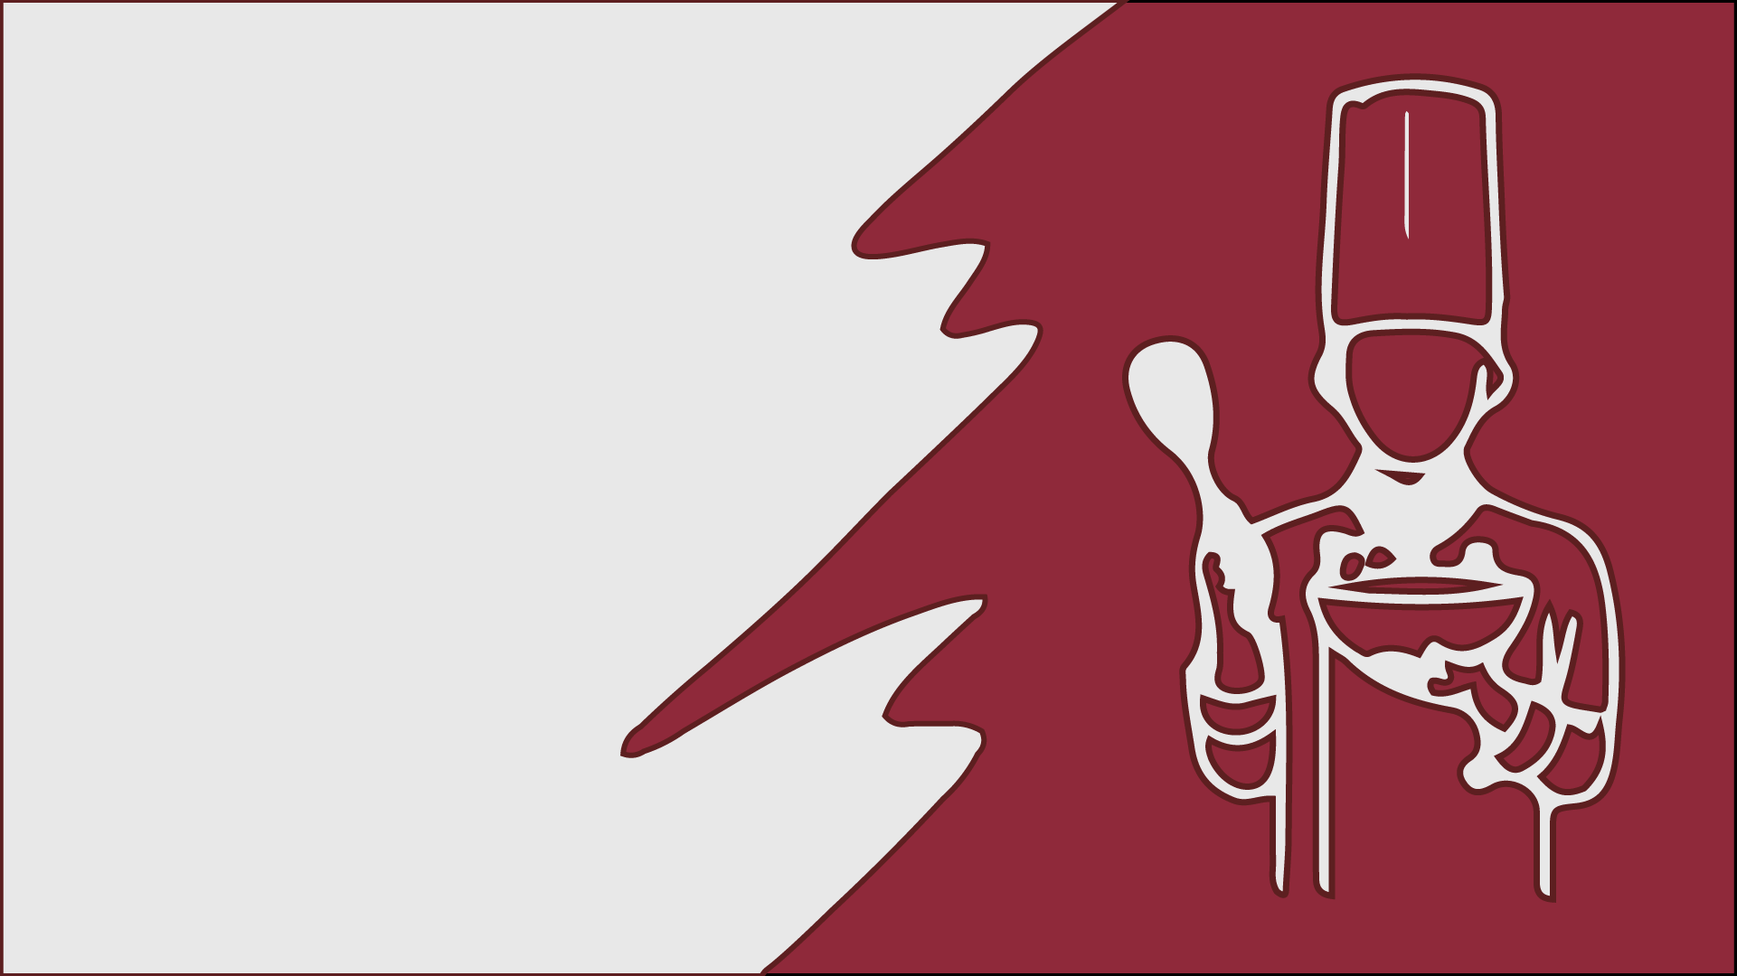
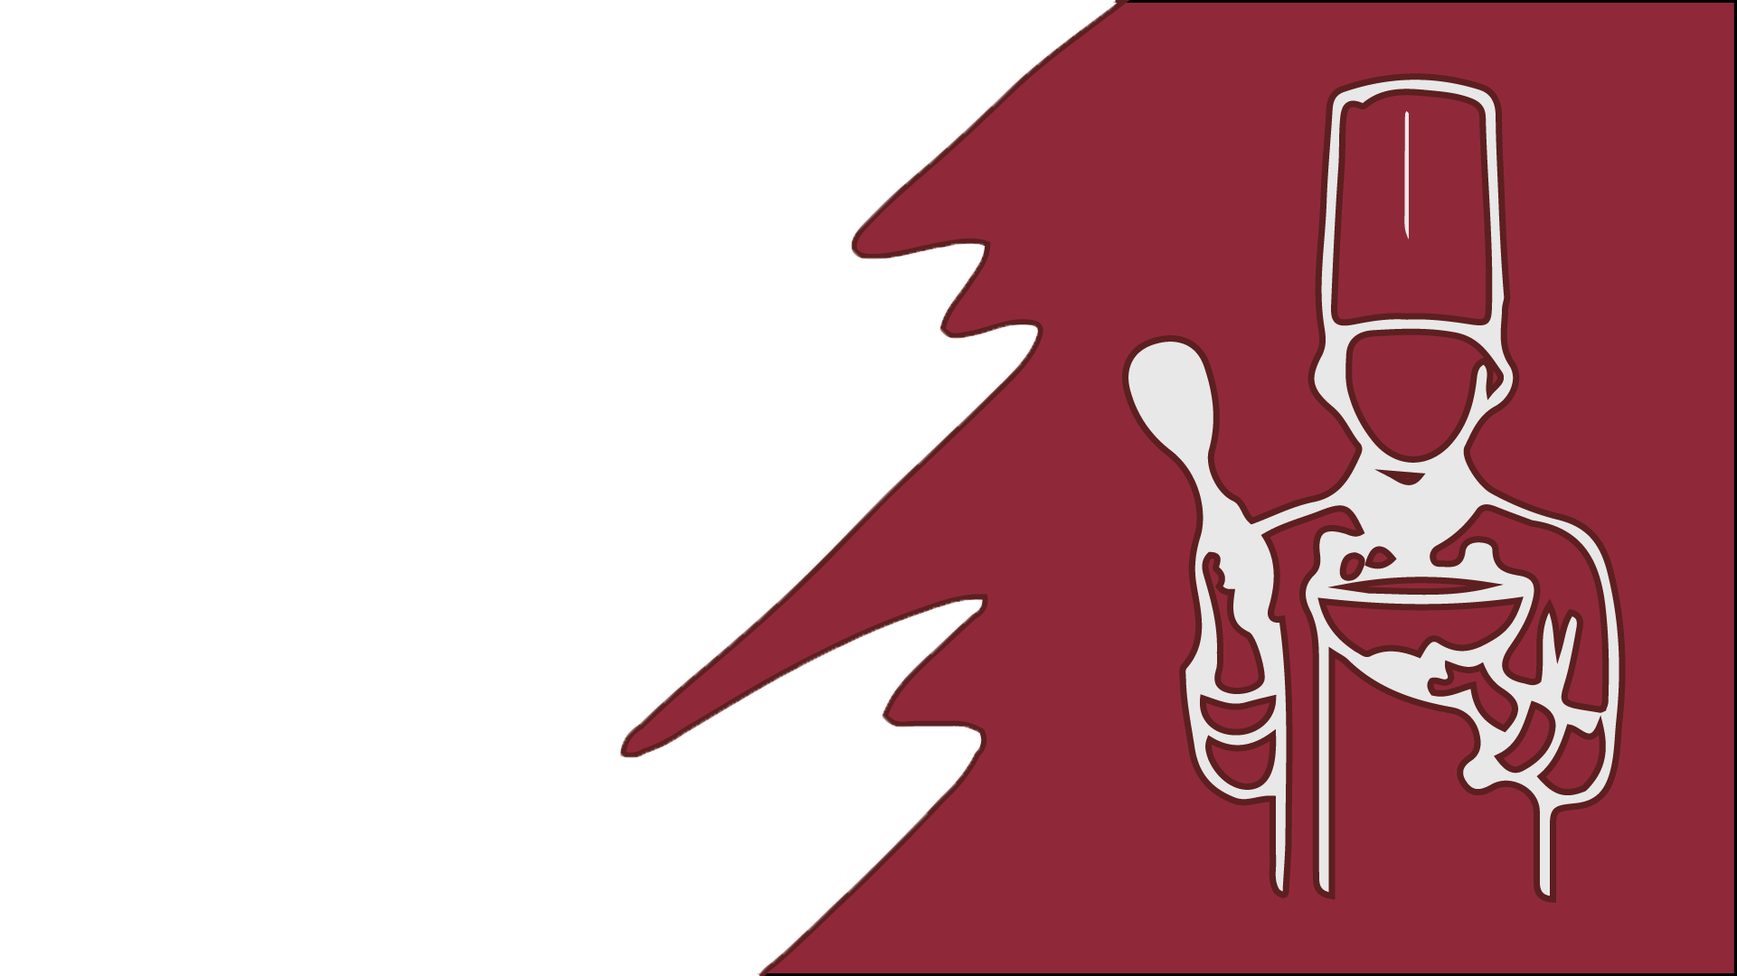
colored the sections, fixed texts, fixed submit prevent v1, hero re-design

Changed region(s): [[0.0, 0.9778, 0.4373, 1.0], [0.0, 0.0, 0.0312, 0.0306]]

diff --git a/cak/pages/contact/Contact.tsx b/cak/pages/contact/Contact.tsx
@@ -1,4 +1,4 @@
-import React from 'react';
+import React, { useState } from 'react';
 import { Phone, Map, Mail } from '@mui/icons-material';
 import { useForm, SubmitHandler } from 'react-hook-form';
 import Footer from '../Footer/Footer';
@@ -11,48 +11,63 @@ type Inputs = {
   message: string;
 };
 
-function Contact({ }: Props) {
-  const { register, handleSubmit, reset } = useForm<Inputs>();
+function Contact() {
+  const { register, handleSubmit, reset, formState: { errors } } = useForm<Inputs>();
+  const [isSubmitting, setIsSubmitting] = useState(false);
 
   const onSubmit: SubmitHandler<Inputs> = (formData) => {
-    window.location.href = `mailto:pathfinders306@gmail.com?subject=${formData.subject}&body=Hi, my name is ${formData.name}. ${formData.message} (${formData.email})`;;
+    setIsSubmitting(true);
+
+    // Simulated email send operation
+    setTimeout(() => {
+      window.location.href = `mailto:pathfinders306@gmail.com?subject=${encodeURIComponent(formData.subject)}&body=Hi, my name is ${encodeURIComponent(formData.name)}. ${encodeURIComponent(formData.message)} (${encodeURIComponent(formData.email)})`;
+      reset();
+      setIsSubmitting(false);
+    }, 2000);
   };
+
 
   return (
     <section id='contacts'>
-      <div className='bg-emerald-900 h-screen flex flex-col text-left md:flex-row max-w-full justify-center mx-auto items-center z-0'>
+      <div className='bg-[#f8edeb] h-screen flex flex-col text-left md:flex-row max-w-full justify-center mx-auto items-center z-0'>
         <div className='flex flex-col space-y-16 mt-[100px]'>
-          <h1 className='text-6xl font-bold text-center text-white'>Contact Us:</h1>
-          <h4 className='text-3xl font-semibold text-center text-white'>
-            Want to hear more about us? <span className='underline decoration-emerald-300'>Lets Talk!</span>
+          <h1 className='text-6xl font-bold text-center text-[#932b2d]'>Contact Us:</h1>
+          <h4 className='text-3xl font-semibold text-center text-[#932b2dab]'>
+            Want to hear more about us? <span className='underline text-[#932b2d] decoration-[#932b2d]'>Lets Talk!</span>
           </h4>
           <div className='flex flex-col space-x-8 sm:flex-row'>
             <div className='flex items-center space-x-5 justify-center'>
-              <Phone className='text-emerald-300 h-7 w-7 animate-pulse' />
-              <p className='text-2xl text-white'>+12343224</p>
+              <Phone className='text-[#5d1f20] h-7 w-7 animate-pulse' />
+              <p className='text-2xl text-[#932b2dab]'>+12343224</p>
             </div>
             <div className='flex items-center space-x-5 justify-center'>
-              <Mail className='text-emerald-300 h-7 w-7 animate-pulse' />
-              <p className='text-2xl text-white'>pathfinders306@gmail.com</p>
+              <Mail className='text-[#5d1f20] h-7 w-7 animate-pulse' />
+              <p className='text-2xl text-[#932b2dab]'>pathfinders306@gmail.com</p>
             </div>
             <div className='flex items-center space-x-5 justify-center'>
-              <Map className='text-emerald-300 h-7 w-7 animate-pulse' />
-              <p className='text-2xl text-white'>123 Main Street</p>
+              <Map className='text-[#5d1f20] h-7 w-7 animate-pulse' />
+              <p className='text-2xl text-[#932b2dab]'>123 Main Street</p>
             </div>
           </div>
 
           <form onSubmit={handleSubmit(onSubmit)} className='flex px-4 flex-col space-y-2 w-auto mx-auto'>
             <div className='flex space-x-2'>
-              <input {...register('name')} placeholder='Name' className='contactInput text-black' type='text' />
-              <input {...register('email')} placeholder='Email' className='contactInput text-black' type='email' />
+              <input {...register('name', { required: "Name is required" })} placeholder='Name' className={`contactInput text-black ${errors.name ? 'border-red-500' : ''}`} type='text' />
+              {errors.name && <p className="text-red-500 text-xs italic">{errors.name.message}</p>}
+
+              <input {...register('email', { required: "Email is required", pattern: { value: /^\S+@\S+$/i, message: "Invalid email format" } })} placeholder='Email' className={`contactInput text-black ${errors.email ? 'border-red-500' : ''}`} type='email' />
+              {errors.email && <p className="text-red-500 text-xs italic">{errors.email.message}</p>}
+
             </div>
 
-            <input {...register('subject')} placeholder='Subject' className='contactInput text-black' type='text' />
+            <input {...register('subject', { required: "Subject is required" })} placeholder='Subject' className={`contactInput text-black ${errors.subject ? 'border-red-500' : ''}`} type='text' />
+            {errors.subject && <p className="text-red-500 text-xs italic">{errors.subject.message}</p>}
 
-            <textarea {...register('message')} placeholder='Message' className='contactInput text-black' />
+            <textarea {...register('message', { required: "Message is required" })} placeholder='Message' className={`contactInput text-black ${errors.message ? 'border-red-500' : ''}`} />
+            {errors.message && <p className="text-red-500 text-xs italic">{errors.message.message}</p>}
 
-            <button type='submit' className='bg-emerald-300 py-5 px-10 rounded-md text-black font-bold'>
-              Submit
+            <button type='submit' disabled={isSubmitting || Object.keys(errors).length > 0} className={`bg-[#d5bcb7] ${isSubmitting ? 'cursor-not-allowed opacity-50' : 'hover:bg-[#932b2d] hover:duration-500'} py-5 px-10 rounded-md text-black font-bold transition duration-300 ease-in-out`}>
+              {isSubmitting ? 'Submitting...' : 'Submit'}
             </button>
           </form>
         </div>

diff --git a/cak/pages/services/Services.tsx b/cak/pages/services/Services.tsx
@@ -10,30 +10,30 @@ const Services: NextPage = () => {
     <section id='services' className='h-full bg-emerald-900 flex justify-center items-center pt-20'>
       <div className='flex flex-col gap-10'>
         <div className='flex flex-col md:flex-row bg-transparent items-center justify-between gap-4 p-5' >
-            <div className='flex flex-col p-10 gap-4 md:hover:drop-shadow-3xl md:hover:bg-emerald-700 md:hover:rounded-xl bg-emerald-700 rounded-xl drop-shadow-xl md:bg-emerald-900 md:drop-shadow-none'>
-              <h1 className='text-white font-bold text-xl md:text-3xl'>Website Development and Design</h1>
-              <p className='mt-6 text-white '>Lorem ipsum dolor, sit amet consectetur adipisicing elit. <br />Cumque, enim. Iure labore aspernatur expedita eveniet? <br />Quas assumenda repellendus ab consequatur, cumque provident! </p>
-              <button onClick={() => setIsOffers(true)} className=' inline-block mt-4 rounded-full p-3 w-28 bg-emerald-800 hover:bg-emerald-950 text-white'> Our Offers </button>
-            </div>
-            <Offers isOpen={isOffers} onClose={() => setIsOffers(false)} />
-            <img 
-              src="https://www.appsdevpro.com/blog/wp-content/uploads/2022/09/Top-Web-Design-Development-Trends-You-Need-to-Know-in-2023.png"
-              width={500}
-              height={300}
-              className='rounded-xl'
-            />
+          <div className='flex flex-col p-10 gap-4 md:hover:drop-shadow-3xl md:hover:bg-emerald-700 md:hover:rounded-xl bg-emerald-700 rounded-xl drop-shadow-xl md:bg-emerald-900 md:drop-shadow-none'>
+            <h1 className='text-white font-bold text-xl md:text-3xl'>Website Development and Design</h1>
+            <p className='mt-6 text-white '>Lorem ipsum dolor, sit amet consectetur adipisicing elit. <br />Cumque, enim. Iure labore aspernatur expedita eveniet? <br />Quas assumenda repellendus ab consequatur, cumque provident! </p>
+            <button onClick={() => setIsOffers(true)} className=' inline-block mt-4 rounded-full p-3 w-28 bg-emerald-800 hover:bg-emerald-950 text-white'> Our Offers </button>
+          </div>
+          <Offers isOpen={isOffers} onClose={() => setIsOffers(false)} />
+          <img
+            src="https://www.appsdevpro.com/blog/wp-content/uploads/2022/09/Top-Web-Design-Development-Trends-You-Need-to-Know-in-2023.png"
+            width={500}
+            height={300}
+            className='rounded-xl'
+          />
         </div>
-          <div className='flex flex-col  md:flex-row-reverse gap-4 p-5 items-center justify-between '>
+        <div className='flex flex-col  md:flex-row-reverse gap-4 p-5 items-center justify-between '>
           <div className='flex flex-col p-10 gap-4 md:hover:drop-shadow-3xl md:hover:bg-emerald-700 md:hover:rounded-xl bg-emerald-700 rounded-xl drop-shadow-xl md:bg-emerald-900 md:drop-shadow-none'>
             <h1 className='text-white font-bold text-xl md:text-3xl'>Website Development and Design</h1>
             <p className='mt-6 text-white '>Lorem ipsum dolor, sit amet consectetur adipisicing elit. <br />Cumque, enim. Iure labore aspernatur expedita eveniet? <br />Quas assumenda repellendus ab consequatur, cumque provident! <br />Cupiditate, quod? Aliquid expedita quidem omnis voluptatem perspiciatis?</p>
           </div>
-          <img 
-              src="https://www.appsdevpro.com/blog/wp-content/uploads/2022/09/Top-Web-Design-Development-Trends-You-Need-to-Know-in-2023.png"
-              width={500}
-              height={300}
-              className='rounded-xl max-w-full h-auto'
-            />
+          <img
+            src="https://www.appsdevpro.com/blog/wp-content/uploads/2022/09/Top-Web-Design-Development-Trends-You-Need-to-Know-in-2023.png"
+            width={500}
+            height={300}
+            className='rounded-xl max-w-full h-auto'
+          />
         </div>
       </div>
     </section>

diff --git a/cak/pages/Footer/Footer.tsx b/cak/pages/Footer/Footer.tsx
@@ -4,23 +4,23 @@ const Footer: React.FC = () => {
         e.preventDefault();
         const section = document.querySelector(sectionId);
         if (section) {
-          section.scrollIntoView({ behavior: 'smooth' });
+            section.scrollIntoView({ behavior: 'smooth' });
         }
-      };
+    };
     return (
-        <footer className="bg-emerald-900 text-white">
+        <footer className="bg-[#f8edeb] text-[#381d1d]">
             <div className="max-w-6xl mx-auto px-4 py-12 flex flex-col space-y-8 md:space-y-0 md:flex-row md:justify-between">
                 <div>
                     <h5 className="text-xl font-bold mb-2">Our Company</h5>
                     <ul className="space-y-2">
                         <li>
-                            <a href="#about" onClick={scrollToSection('#about')} className="hover:text-emerald-300 transition-colors">About Us</a>
+                            <a href="#about" onClick={scrollToSection('#about')} className="hover:text-[#df5c5c] transition-colors">About Us</a>
                         </li>
                         <li>
-                            <a href="#services" onClick={scrollToSection('#services')} className="hover:text-emerald-300 transition-colors">Our Services</a>
+                            <a href="#services" onClick={scrollToSection('#services')} className="hover:text-[#df5c5c] transition-colors">Our Services</a>
                         </li>
                         <li>
-                            <a href="#contacts" onClick={scrollToSection('#contacts')} className="hover:text-emerald-300 transition-colors">Contact</a>
+                            <a href="#contacts" onClick={scrollToSection('#contacts')} className="hover:text-[#df5c5c] transition-colors">Contact</a>
                         </li>
                     </ul>
                 </div>
@@ -28,13 +28,13 @@ const Footer: React.FC = () => {
                     <h5 className="text-xl font-bold mb-2">Follow Us</h5>
                     <ul className="space-y-2">
                         <li>
-                            <a href="https://www.facebook.com" className="hover:text-emerald-300 transition-colors">Facebook</a>
+                            <a href="https://www.facebook.com" className="hover:text-[#df5c5c] transition-colors">Facebook</a>
                         </li>
                         <li>
-                            <a href="https://www.instagram.com" className="hover:text-emerald-300 transition-colors">Instagram</a>
+                            <a href="https://www.instagram.com" className="hover:text-[#df5c5c] transition-colors">Instagram</a>
                         </li>
                         <li>
-                            <a href="https://www.twitter.com" className="hover:text-emerald-300 transition-colors">Twitter</a>
+                            <a href="https://www.twitter.com" className="hover:text-[#df5c5c] transition-colors">Twitter</a>
                         </li>
                     </ul>
                 </div>
@@ -42,10 +42,10 @@ const Footer: React.FC = () => {
                     <h5 className="text-xl font-bold mb-2">Legal</h5>
                     <ul className="space-y-2">
                         <li>
-                            <a href="/privacy" className="hover:text-emerald-300 transition-colors">Privacy Policy</a>
+                            <a href="/privacy" className="hover:text-[#df5c5c] transition-colors">Privacy Policy</a>
                         </li>
                         <li>
-                            <a href="/terms" className="hover:text-emerald-300 transition-colors">Terms of Use</a>
+                            <a href="/terms" className="hover:text-[#df5c5c] transition-colors">Terms of Use</a>
                         </li>
                     </ul>
                 </div>

diff --git a/cak/pages/Hero/Hero.tsx b/cak/pages/Hero/Hero.tsx
@@ -1,32 +1,69 @@
-import React from "react";
+import React, { useState, useEffect } from "react";
 import Image from "next/image";
-import Hero1 from './hero2.png'
+import Hero1 from '../../public/background1.png'; // Default large screen image
+import HeroMobile from '../../public/background 2.png'; // Smaller screen image
+import ButtonSvg from '../../public/button.svg'; // Ensure this is the correct path
 
 const Hero = () => {
+  const [isMobile, setIsMobile] = useState(false);
+
+  // Detect screen size
+  useEffect(() => {
+    const handleResize = () => {
+      setIsMobile(window.innerWidth < 768); // Example breakpoint at 768px
+    };
+
+    window.addEventListener("resize", handleResize);
+    handleResize(); // Initial check
+
+    return () => window.removeEventListener("resize", handleResize);
+  }, []);
 
   const scrollToSection = (sectionId) => (e) => {
     e.preventDefault();
     const section = document.querySelector(sectionId);
     if (section) {
-      section.scrollIntoView({ behavior: 'smooth' });
+      section.scrollIntoView({ behavior: "smooth" });
     }
   };
 
   return (
-    <section id='hero' className="bg-emerald-900 mx-auto px-8 md:flex md:items-center md:justify-between py-12 min-h-[650px] w-auto">
-      <div className="md:w-1/2">
-        <h1 className="text-4xl md:text-5xl font-bold mb-4">Welcome to Our Website!</h1>
-        <p className="text-lg md:text-xl mb-8">
-          Discover our range of services and how we can help you take your project to the next level.
+    <section
+      id="hero"
+      className="bg-[#f8edeb] flex flex-col md:flex-row items-center justify-center min-h-screen mx-auto"
+    >
+      <div className="text-center md:text-left p-4 md:p-20 z-10">
+        <h1 className="text-3xl md:text-5xl font-bold text-[#932b2d] mb-4">
+          Welcome to Our Website!
+        </h1>
+        <p className="text-lg text-[#381d1d] md:text-xl mb-8">
+          Discover our range of services and how we can help you take your
+          project to the next level.
         </p>
-        <div className="flex p-9 justify-center md:justify-start">
-          <a href="#contacts" onClick={scrollToSection('#contacts')}>
-            <p className="inline-block bg-emerald-800 text-white py-3 px-6 rounded-lg hover:bg-emerald-700 transition-colors">Contact Us</p>
-          </a>
+        <div className="flex justify-center md:justify-start">
+          <div
+            onClick={scrollToSection("#contacts")}
+            className="inline-flex items-center justify-center ml-6 cursor-pointer bg-no-repeat bg-center bg-cover hover:rotate-[30deg] transition-transform duration-300 ease-in-out"
+            style={{
+              backgroundImage: `url(${ButtonSvg.src})`,
+              width: "200px",
+              height: "100px",
+            }}
+          >
+            <a href="#contacts" className="text-transparent w-full h-full flex items-center justify-center">
+              Contact Us {/* Invisible text for accessibility, now clickable */}
+            </a>
+          </div>
         </div>
       </div>
-      <div className="md:w-1/2 flex justify-center md:justify-end">
-       <Image src={Hero1} alt="Hero" className=" mix-blend-darken rounded-full max-w-s md:max-w-md lg:max-w-xl xl:max-w-xl" />
+      <div className={`relative ${isMobile ? 'w-[400px] mt-[-850px] h-[200px]' : `flex items-center ml-[-450px] justify-center relative h-full w-full`}`}>
+        <Image
+          src={isMobile ? HeroMobile : Hero1}
+          alt="Hero Background"
+          objectFit="cover"
+          objectPosition="center"
+          priority={true}
+        />
       </div>
     </section>
   );

diff --git a/cak/pages/about/About.tsx b/cak/pages/about/About.tsx
@@ -6,15 +6,21 @@ import AboutCard from '../about/AboutCard'; // Ensure the import path is correct
 export const images = [
   {
     src: 'https://media.licdn.com/dms/image/D4E03AQGna3XZwEDc9Q/profile-displayphoto-shrink_200_200/0/1706391785193?e=1714003200&v=beta&t=nga_rVjFhCk7yRzBlN3IFnUJZMrn22XdUQyZjglXscw',
-    alt: 'Team Member 1', name: 'CetiJunior', description: 'A Cee J is a very good guy, probably the best guy in the world',
+    alt: 'Team Member 1', name: 'CetiJunior',
+    descriptionShort: 'A Cee J is a very good guy',
+    descriptionLong: 'A Cee J is a very good guy, probably the best guy in the world',
   },
   {
     src: 'https://media.licdn.com/dms/image/D4E03AQE-Ea5M_VhX-A/profile-displayphoto-shrink_200_200/0/1702734234182?e=1714003200&v=beta&t=U5Y_tZ5Elgcsa2QVc8_-my11Bpz08Dcrzlqi5sPlbcI',
-    alt: 'Team Member 2', name: 'Keni', description: 'Keni is a very good guy, probably one of the guys in the world',
+    alt: 'Team Member 2', name: 'Keni',
+    descriptionShort: 'Keni is a very good guy',
+    descriptionLong: 'Keni is a very good guy, probably one of the guys in the world',
   },
   {
     src: 'https://media.licdn.com/dms/image/D4E03AQF_uhnfXUmUtg/profile-displayphoto-shrink_100_100/0/1708170924118?e=1714003200&v=beta&t=JT5-HlHe0R9ZJHrYueY5wEFRDzsA8Jj9dHoRNVfvOSM',
-    alt: 'Team Member 3', name: 'Lursi', description: 'Archie is a very good guy, probably one of the guyses guys in the world'
+    alt: 'Team Member 3', name: 'Lursi',
+    descriptionShort: 'Archie is a very good guy',
+    descriptionLong: 'Archie is a very good guy, probably one of the guyses guys in the world'
   },
 ];
 
@@ -28,9 +34,9 @@ const About = () => {
   };
 
   return (
-    <section id="about" className="bg-emerald-900 mx-auto px-8 py-20 min-h-[600px]">
-      <h1 className="text-4xl md:text-5xl font-bold text-center mb-8 py-7">About Us</h1>
-      <p className="text-lg md:text-xl text-center mb-12">
+    <section id="about" className="bg-[#f8edeb] mx-auto px-8 py-20 min-h-[600px]">
+      <h1 className="text-4xl md:text-5xl font-bold text-[#932b2d] text-center mb-8 py-7">About Us</h1>
+      <p className="text-lg text-[#381d1d] md:text-xl text-center mb-12">
         Learn more about our journey, our team, and what drives us to deliver exceptional services.
       </p>
       <div className='flex flex-wrap justify-center gap-4 items-center'>
@@ -38,7 +44,7 @@ const About = () => {
       </div>
       <AboutCard isOpen={isModalOpen} onClose={() => setModalOpen(false)} selectedImage={selectedImage} />
       <div className="text-center mt-12">
-        <p className="text-lg">
+        <p className="text-[#381d1d] text-lg">
           Our team is dedicated to providing top-notch services tailored to our clients needs. Explore our site to find out how we can help you achieve your goals.
         </p>
       </div>

diff --git a/cak/pages/about/AboutCard.tsx b/cak/pages/about/AboutCard.tsx
@@ -45,7 +45,7 @@ const AboutCard = ({ isOpen, onClose, selectedImage }) => {
       ...dynamicStyles, // Apply dynamic styles here
     }}>
       <div style={{
-        backgroundColor: '#064e3b',
+        backgroundColor: '#5d1f20',
         padding: '20px',
         borderRadius: '8px',
         display: 'flex',
@@ -57,11 +57,11 @@ const AboutCard = ({ isOpen, onClose, selectedImage }) => {
         <button style={{ marginLeft: 'auto', background: 'transparent', border: 'none', color: 'white', cursor: 'pointer' }} onClick={onClose}>
           <CloseIcon />
         </button>
-        <div className="flex flex-col md:flex-row bg-emerald-200 rounded-xl overflow-hidden">
+        <div className="flex flex-col md:flex-row items-center bg-[#5d1f20] rounded-xl overflow-hidden">
           <Image src={selectedImage.src} alt={selectedImage.alt} className='md:w-[400px] h-auto rounded-l-xl' />
-          <div className="flex flex-col justify-center p-4 text-black md:w-1/2">
+          <div className="flex flex-col justify-center p-4 text-white md:w-1/2">
             <h3 className='text-2xl font-bold mb-2'>{selectedImage.name}</h3>
-            <p className='text-lg'>{selectedImage.description}</p>
+            <p className='text-lg'>{selectedImage.descriptionLong}</p>
             {/* Additional information */}
           </div>
         </div>

diff --git a/cak/pages/about/SpotlightImages.tsx b/cak/pages/about/SpotlightImages.tsx
@@ -15,8 +15,9 @@ const SpotlightImages = ({ images, onImageClick }) => {
                     onMouseLeave={() => setFocusedImage(null)}
                     onClick={() => onImageClick(image)} // Pass the clicked image back to the parent
                 >
-                    <img src={image.src} alt={image.alt} className="w-[900px] h-auto object-cover" />
-                    <p className="text-center mt-2">{image.name}</p>
+                    <img src={image.src} alt={image.alt} className="w-[900px] h-auto rounded-sm object-cover" />
+                    <p className="text-[#ae2012] font-bold text-xl text-center mt-2">{image.name}</p>
+                    <p className="text-center text-[#fca211dc] text-sm">{image.descriptionShort}</p>
                 </div>
             ))}
         </div>

diff --git a/cak/styles/globals.css b/cak/styles/globals.css
@@ -33,8 +33,8 @@ body {
 }
 
 .contactInput {
-  @apply w-full outline-none bg-white rounded-sm border-b px-6 py-4 border-emerald-300 text-emerald-900 placeholder-emerald-900 
-  transition-all focus:border-emerald-300 focus:ring focus:ring-emerald-300 focus:ring-opacity-50 hover:border-emerald-500;
+  @apply w-full outline-none bg-[#eae0de]  rounded-sm border-b px-6 py-4 border-[#8f293a]  text-[#932b2d] placeholder-[#932b2dab]
+  transition-all focus:border-[#8f293a] focus:ring focus:ring-[#8f293a]  focus:ring-opacity-50 hover:border-[#8f293a];
 }
 
 

diff --git a/cak/pages/navbar/Navbar.tsx b/cak/pages/navbar/Navbar.tsx
@@ -14,7 +14,7 @@ const Navbar = ({ toggle, isNavOpen }: { toggle: () => void, isNavOpen: boolean 
 
   return (
     <>
-      <div className=' w-full h-15 z-10 bg-slate-900 sticky top-0 '>
+      <div className=' w-full h-15 mb-[-40px] z-20 bg-[#8f293a] sticky top-0 '>
         <div className="container mx-auto px-4 h-full">
           <div className="flex justify-between items-center h-full">
             <Logo />
